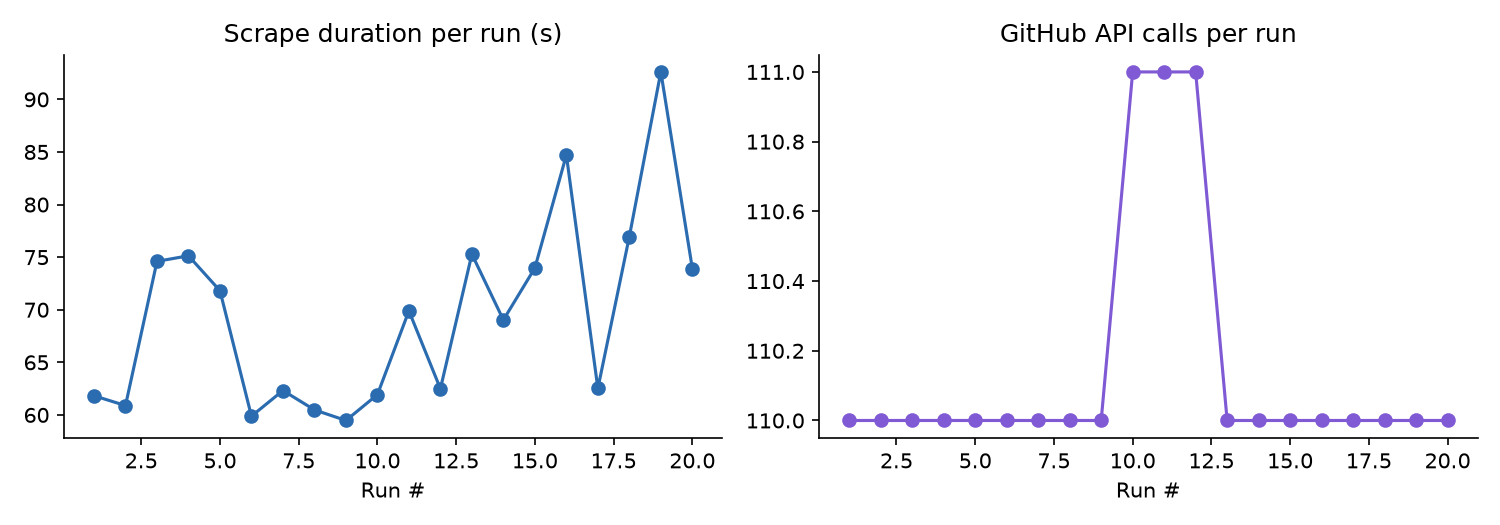
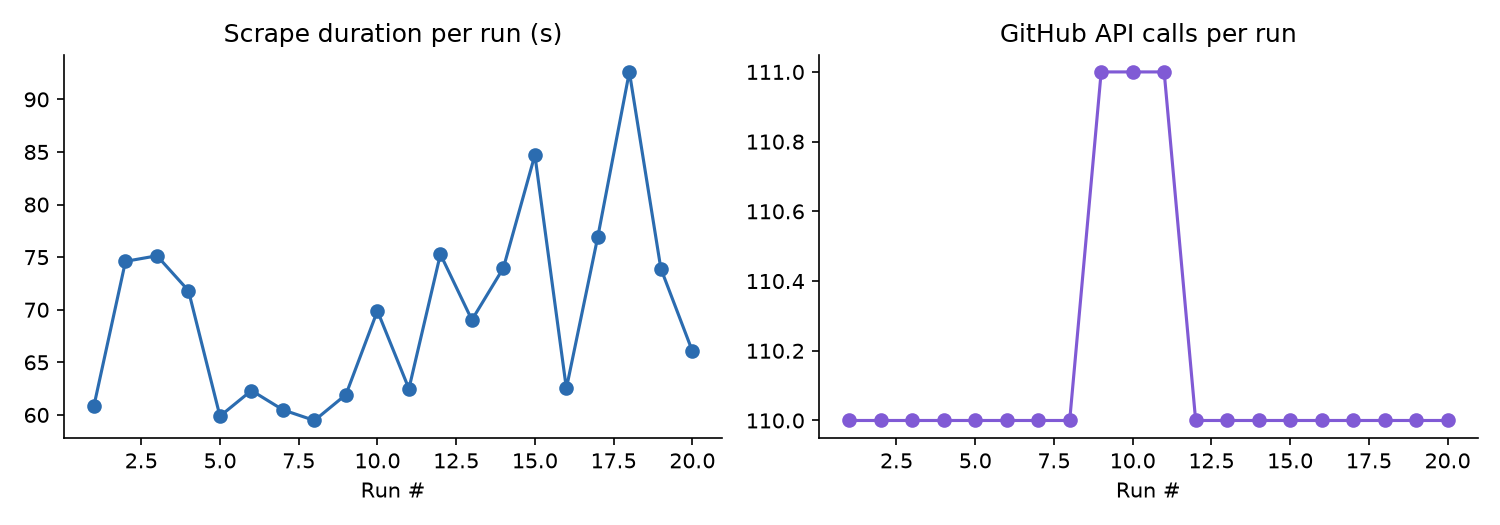
Weekly issue tracker refresh

diff --git a/README.md b/README.md
@@ -81,7 +81,7 @@ See [CONTRIBUTING.md](CONTRIBUTING.md) for the full contributor workflow — inc
 
 <!-- TRACKER:START -->
 
-_Last updated: 2026-08-19 17:41 UTC_
+_Last updated: 2026-08-19 17:58 UTC_
 
 _Tracking **18** upstream repos, **385** relevant open issues._
 
@@ -296,7 +296,7 @@ _Tracking **18** upstream repos, **385** relevant open issues._
 
 <!-- METRICS:START -->
 
-_Last run: 2026-08-19 17:40 UTC, took **73.9s**, **110** GitHub API calls, **4670/5000** rate limit remaining._
+_Last run: 2026-08-19 17:57 UTC, took **66.1s**, **110** GitHub API calls, **4890/5000** rate limit remaining._
 
 ![Scrape metrics trend](assets/metrics_trend.png)
 
